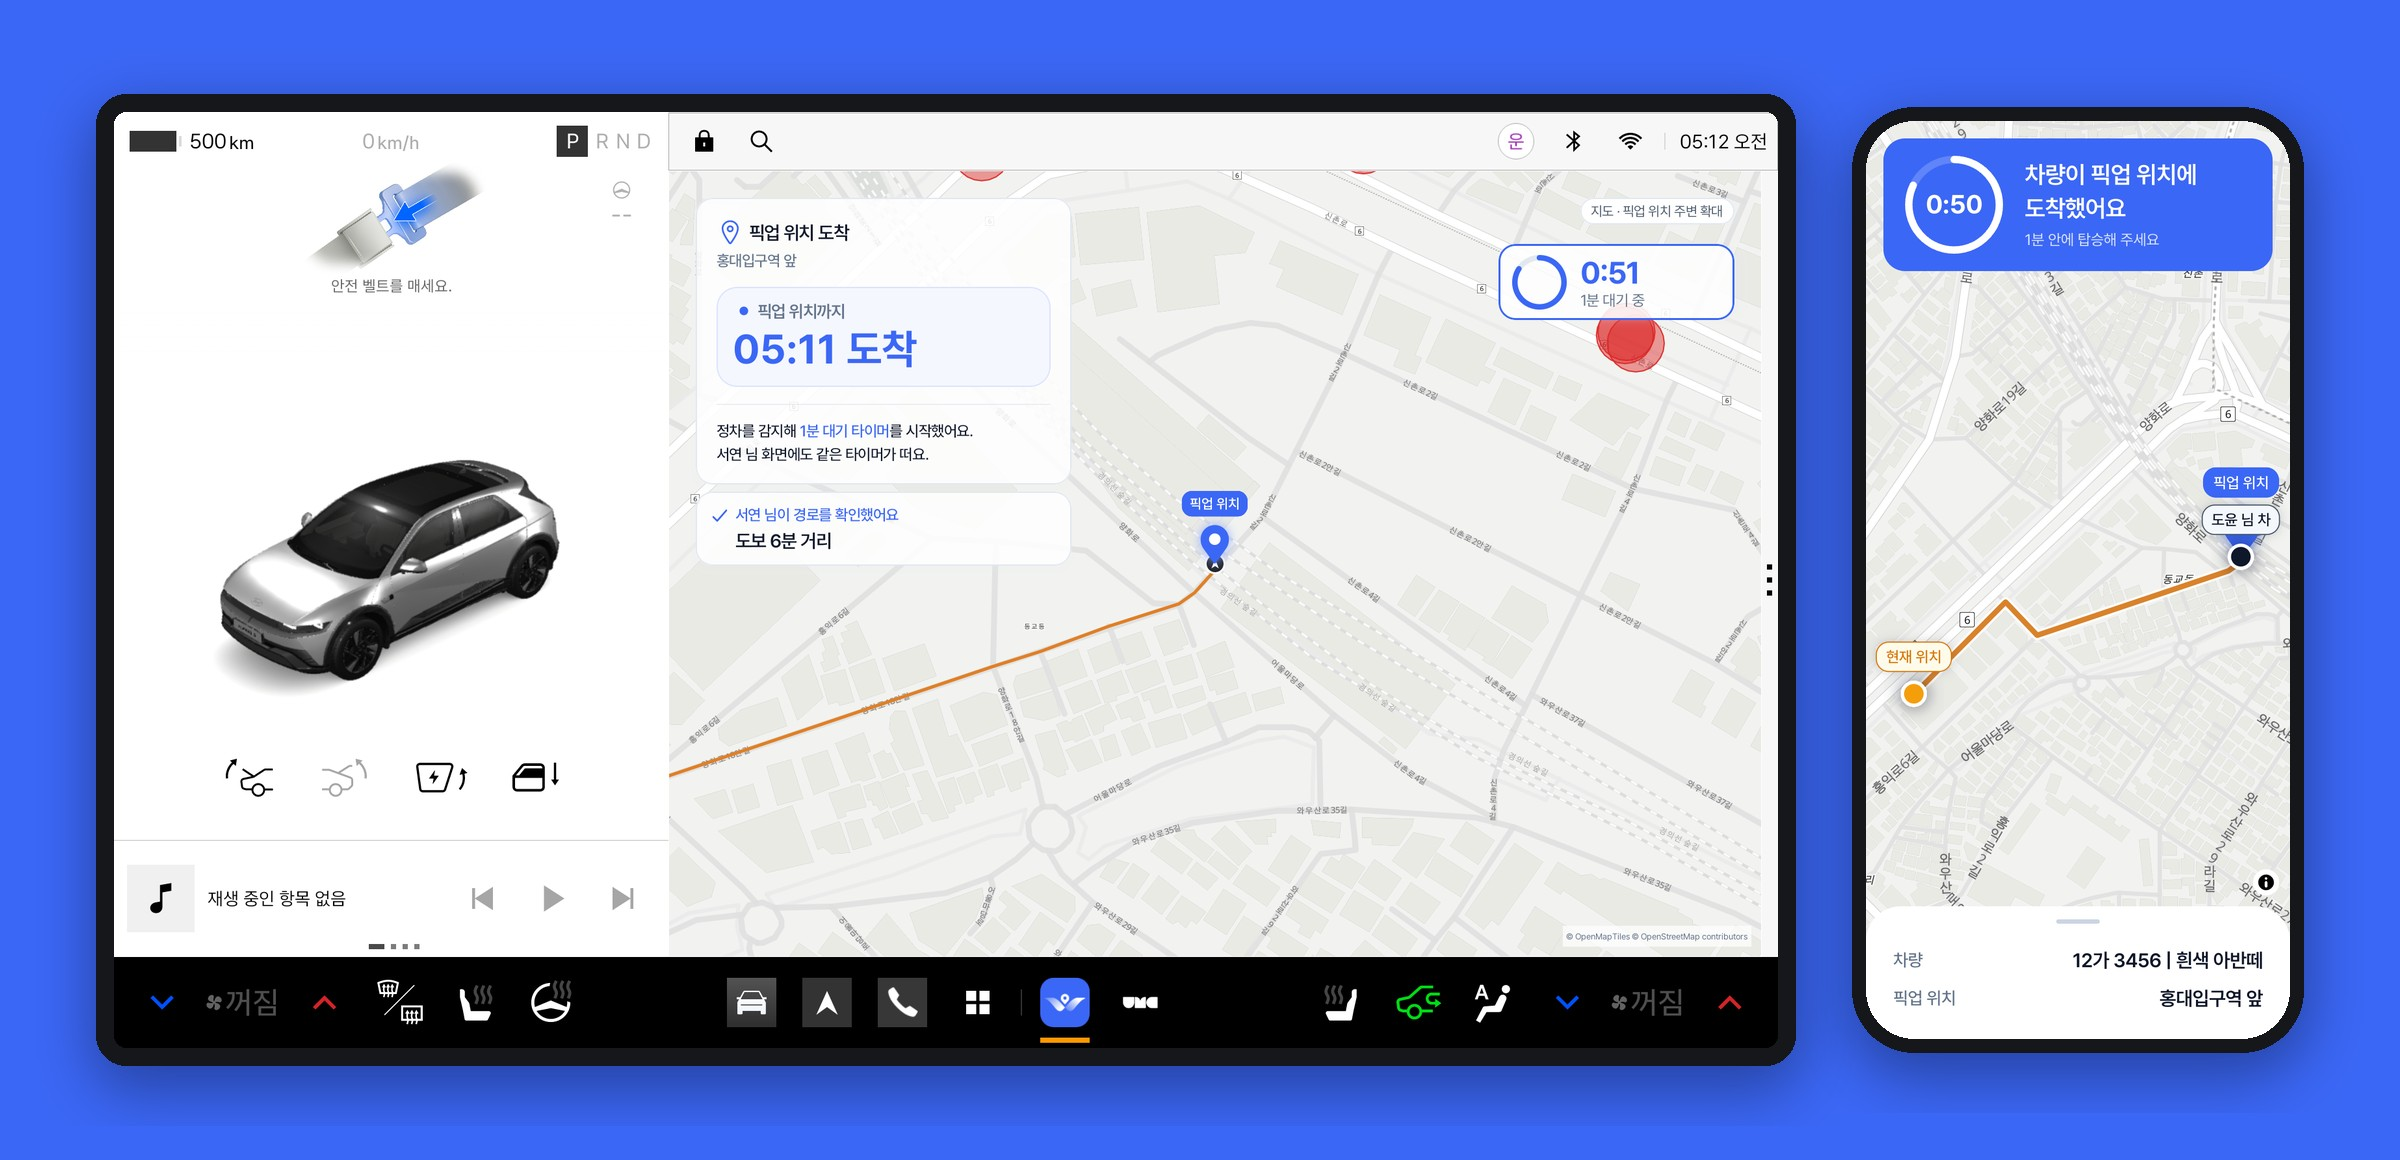
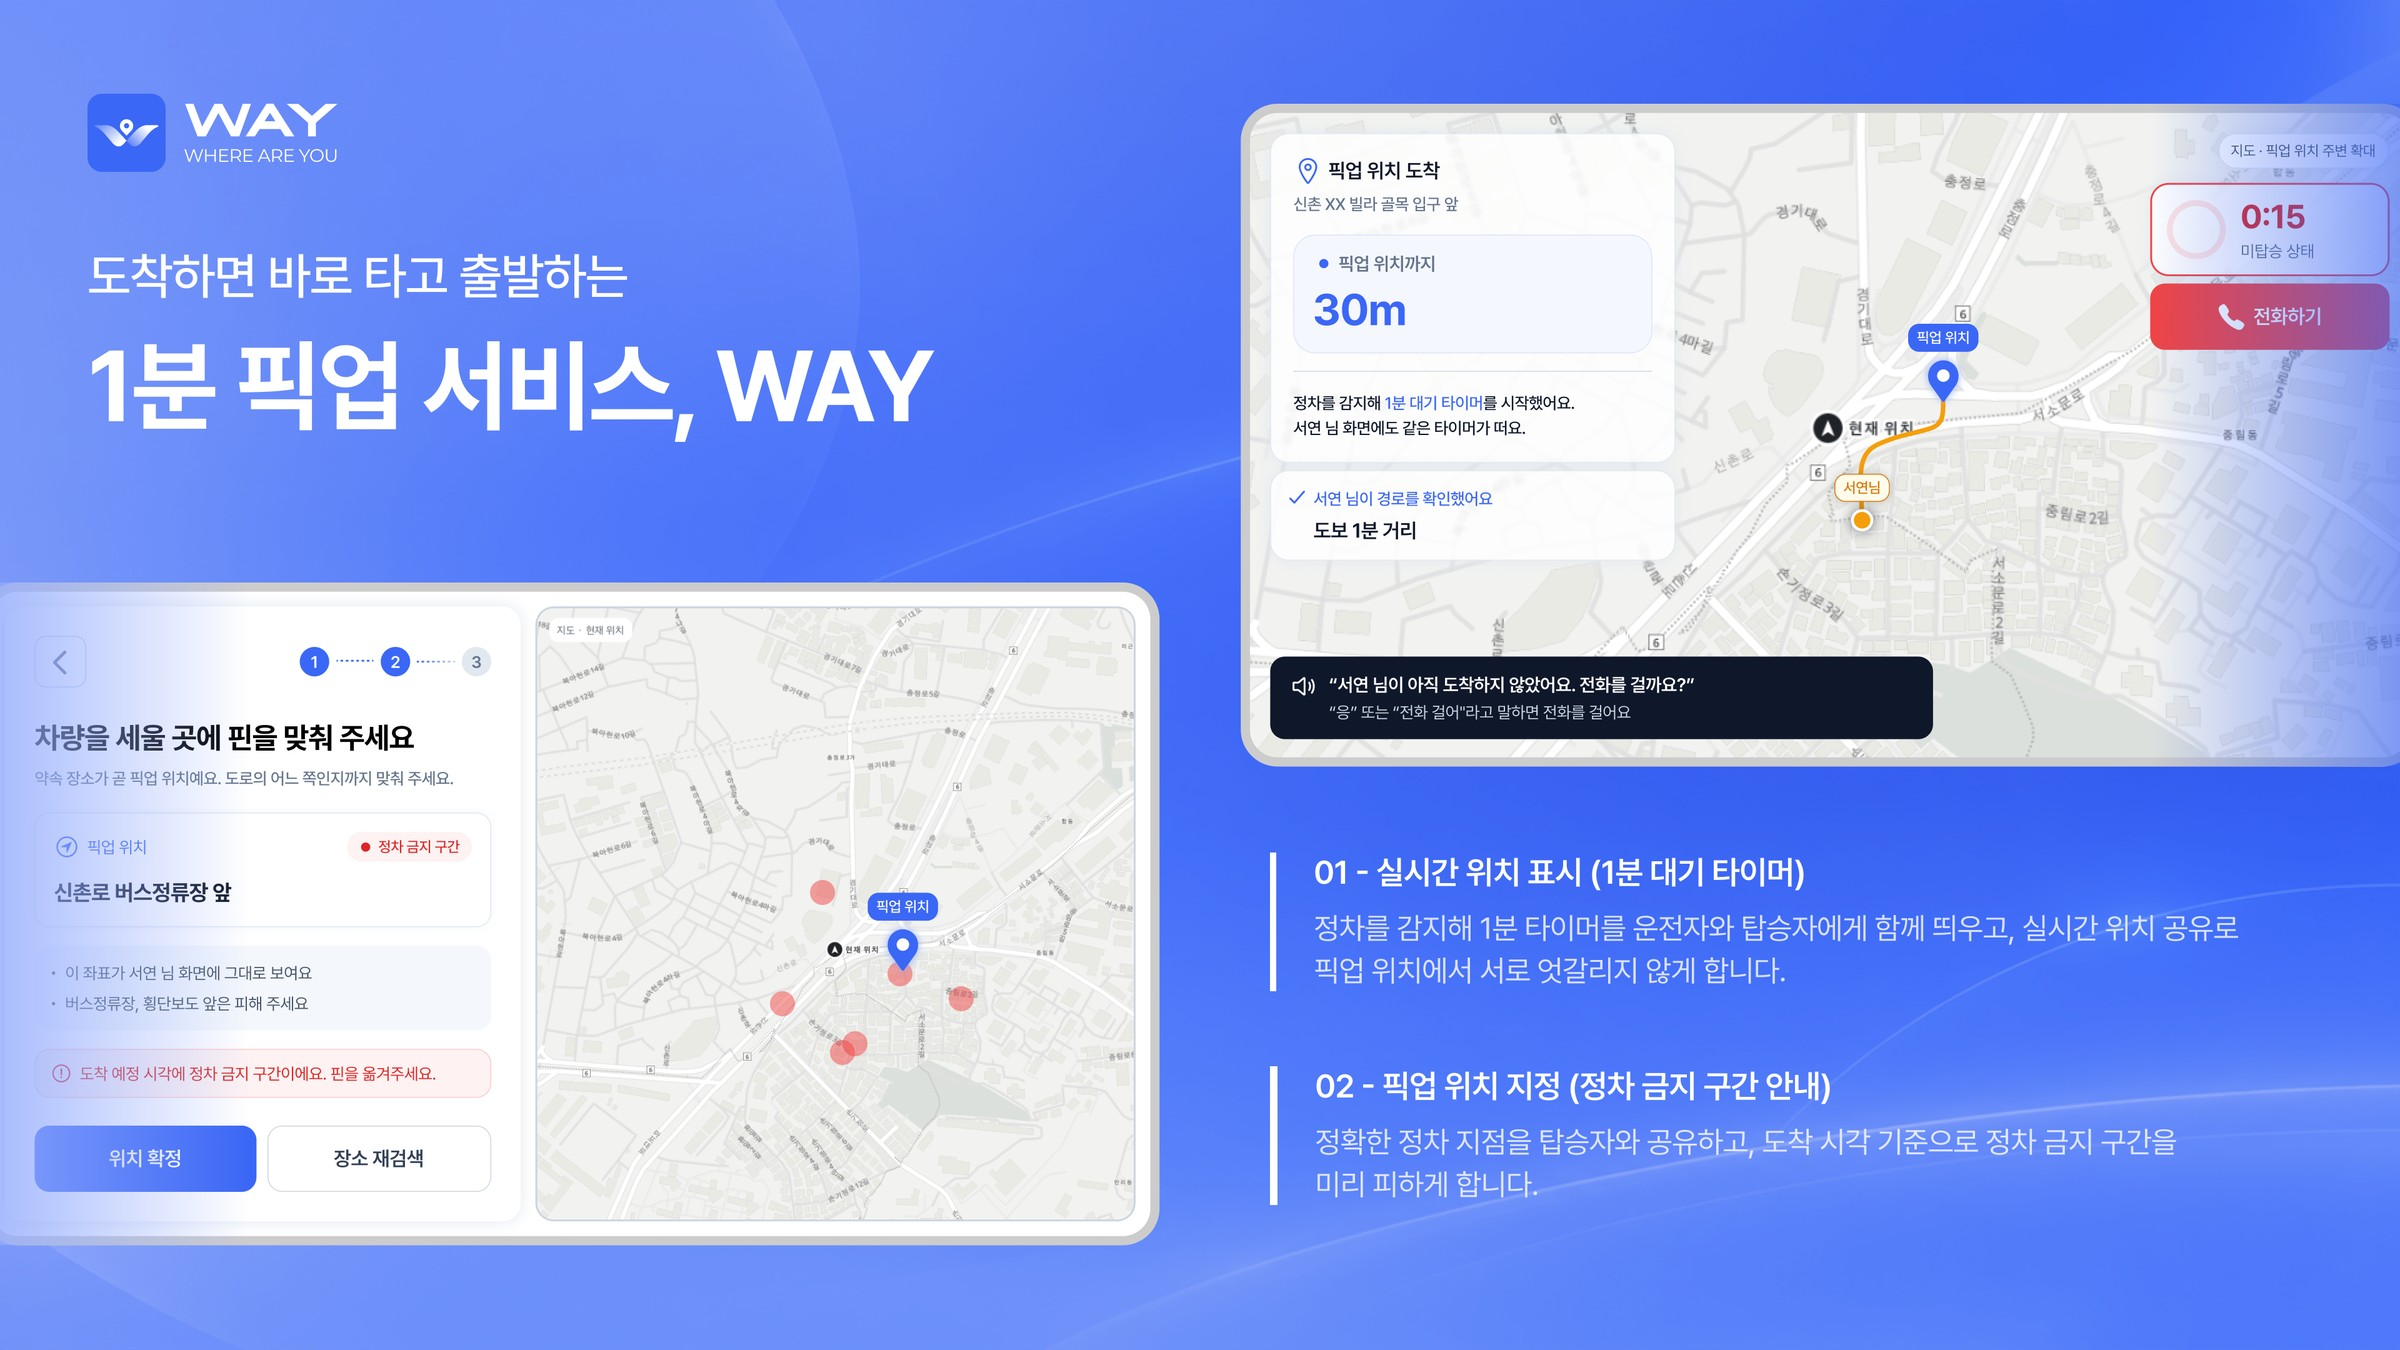
[Docs] README 대표 그림 — 서비스 소개 이미지(1분 픽업 서비스 · D-09 · D-04)

diff --git a/README.md b/README.md
@@ -2,9 +2,7 @@
 
 운전자는 차 화면에서 동승자를 태울 자리를 도로의 어느 쪽 인도인지까지 정합니다. 동승자는 문자로 받은 링크 하나로 그 자리와 다가오는 차를 봅니다. Pleos Connect용 차량 앱이며, 현대자동차그룹 차량용 앱 개발 공모전 출품작입니다.
 
-![정차한 차 화면과 동승자 휴대폰에 같은 1분 대기 타이머가 떠 있다](docs/readme/hero.jpg)
-
-<sub>차가 서면 운전자 화면(왼쪽)과 동승자 휴대폰(오른쪽)에 같은 1분 타이머가 뜹니다. 동승자는 앱을 깔지 않습니다.</sub>
+![WAY 소개: 도착하면 바로 타고 출발하는 1분 픽업 서비스. 1분 대기 타이머가 15초 남은 차 화면(D-09)과 핀이 정차 금지 구간에 걸려 경고가 뜬 핀 맞추기 화면(D-04)](docs/readme/hero.jpg)
 
 ## 내려받기
 
